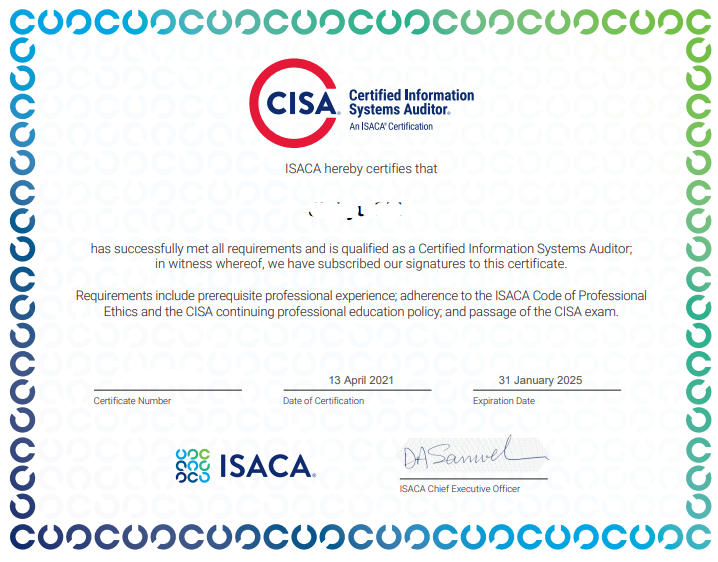
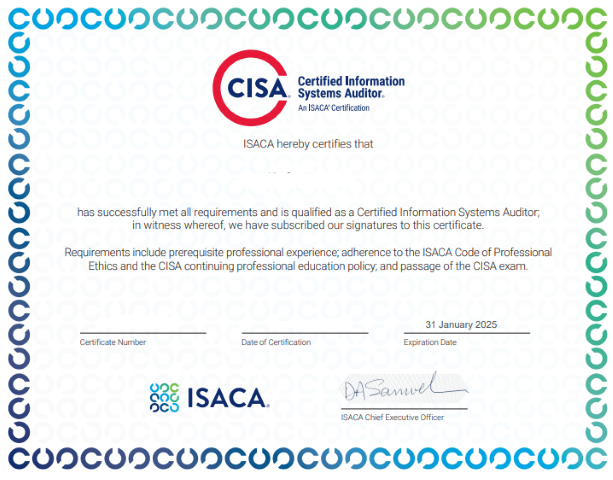
.

diff --git a/_posts/blog/2021-03-04-CISA 시험 후기.md b/_posts/blog/2021-03-04-CISA 시험 후기.md
@@ -4,7 +4,7 @@ title: CISA 후기
 subtitle: 시험장 후기 및 시험 이후 진행 사항
 tag: [CISA]
 published: True
-last_modified_at: 2021-04-14
+last_modified_at: 2021-09-18
 ---
 
 
@@ -101,3 +101,9 @@ Application을 등록하니 확인 메일이 날라 왔다.
 이제 증서번호가 발행되었으니 자격증에 쓸수 있게되었다... 😅   
 
 ![](../../img/2021-03-04-CISA%20시험%20후기/2021-04-14-16-03-44.png)  
+
+----
+
+홈페이지 리뉴얼 끝났다고해서 들어가보니 자격증 이미지가 바꼈다. 
+
+![](../../img/2021-03-04-CISA%20시험%20후기/2021-09-18-00-14-07.png)
